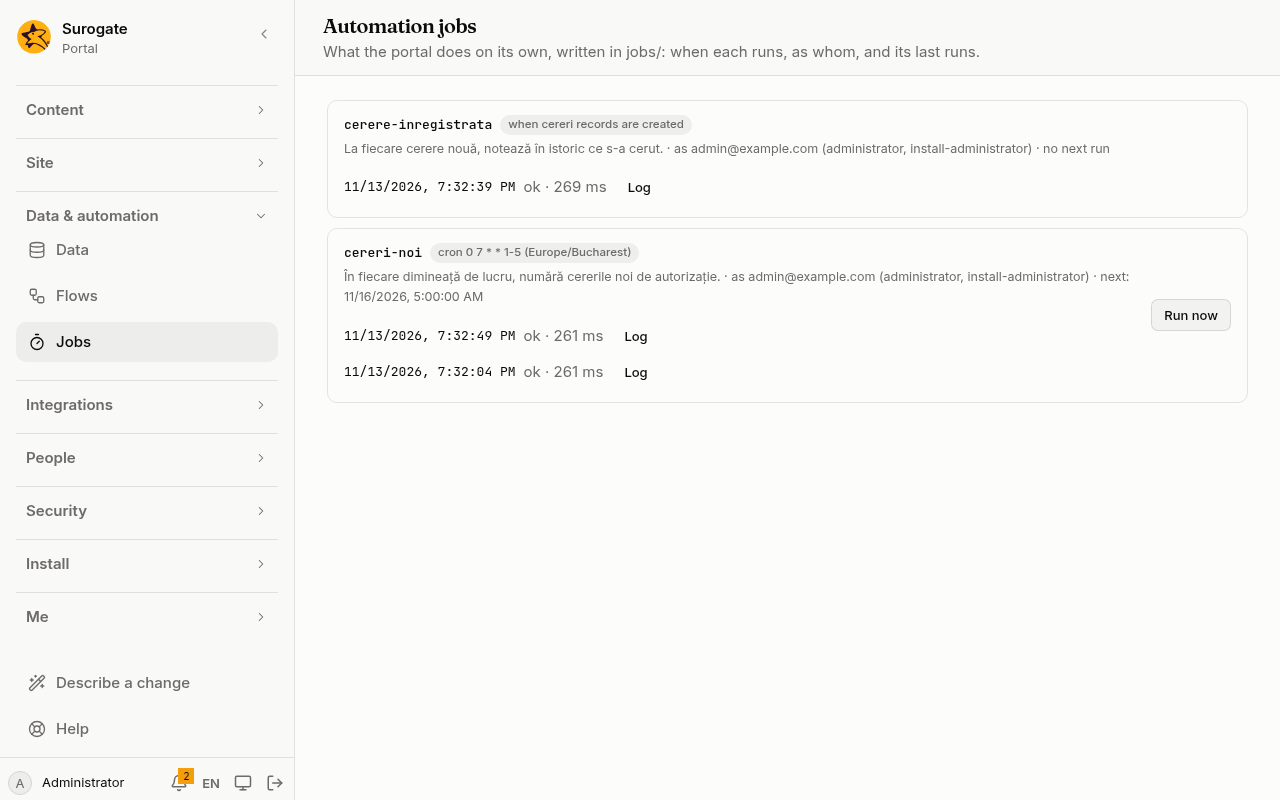
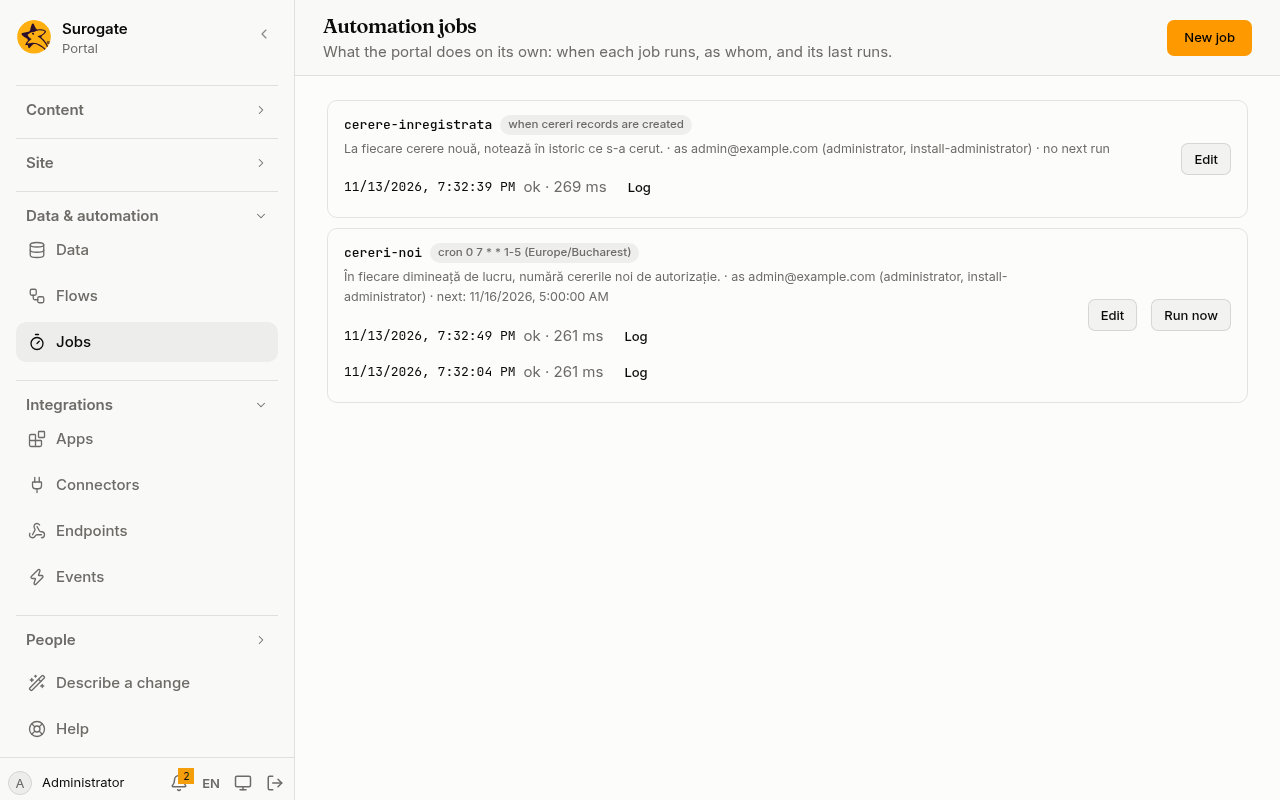
docs(portal): make and change automation jobs in the console

diff --git a/tests/test_content.py b/tests/test_content.py
@@ -512,6 +512,9 @@ class Content(unittest.TestCase):
         doc = page('/portal/sites/jobs/')
         for anchor in ('write-a-job', 'when-it-runs', 'when-records-change', 'when-people-come-and-go', 'when-the-portal-starts-fails-or-is-asked-for', 'when-mail-arrives', 'when-an-app-sends-an-event', 'send-mail', 'what-it-may-do', 'in-the-console'):
             self.assertIn(f'id="{anchor}"', doc)
+        # Jobs are made in the console.
+        self.assertIn('id="make-or-change-a-job"', doc)
+        self.assertNotIn('does not write jobs yet', (ROOT / 'src/content/docs/portal/sites/jobs.md').read_text())
         source = (ROOT / 'src/content/docs/portal/sites/jobs.md').read_text()
         for word in ('kubectl', 'helm', 'PORTAL_', 'git', 'Git', 'Hub', 'worker', 'Postgres', 'repositor', 'lease', 'CEL'):
             self.assertIsNone(re.search(rf'\b{word}', source), word)

diff --git a/src/content/docs/portal/sites/jobs.md b/src/content/docs/portal/sites/jobs.md
@@ -9,7 +9,7 @@ An automation job is work the portal does on its own: count the new requests eve
 
 A job tells no page anything and answers no one, so what people see of it is what it does: a record added, an email sent, a line in a log. Administrators see the jobs under **Jobs** in the console: its trigger, the person it runs as and their roles, when it runs next, whether it runs now, how many changes it still has to run for, and its last runs with their logs:
 
-![The Automation jobs page: the job cerere-inregistrata, which runs when requests are created, and the job cereri-noi, which runs on a schedule, each with the person it runs as and its last runs marked ok, with Log, and Run now for the scheduled one.](../../../../assets/screenshots/portal-jobs-console.png)
+![The Automation jobs page with New job: the job cerere-inregistrata, which runs when requests are created, and the job cereri-noi, which runs on a schedule, each with the person it runs as, its last runs marked ok with Log, Edit, and Run now for the scheduled one.](../../../../assets/screenshots/portal-jobs-console.png)
 
 **Log** shows what a run wrote:
 
@@ -21,7 +21,19 @@ Runs are kept 30 days, with only their errors unless the job is set to debug. **
 
 A job runs for one site; that site's first language is the run's. It acts as a person it names: what that person may see and change, the job may. Without a person, the job acts as a visitor. When the person no longer exists or may not sign in, the run fails and says so. A description says what the job is for, in the console.
 
-The console shows the portal's jobs and their runs; it does not write jobs yet. For now, this is set in the site's configuration: see [Developer: Automation jobs](/portal/developer/jobs/#write-a-job).
+### Make or change a job
+
+Under **Jobs**, **New job** makes one and **Edit** opens one. A job whose file has problems, or that was written by hand in a shape the console cannot draw, is listed under **Jobs not running**, with **Edit**. The editor has three tabs:
+
+- **When:** **It runs** chooses the kind of trigger, and the rest of the tab asks for what that kind needs: how often, a time of day and its time zone, a cron, a date and time, a model and which changes, a mailbox, an app and its event, or which events of the portal, Keel or the DMS. For a job on a time, **Next run** says when it comes, and two rules: **Skip a run while the last one is still running** (on unless you turn it off) and what happens **After the portal was down**.
+- **Settings:** the id (lower-case letters, digits and hyphens, fixed once saved), a description, the **Site**, and **Runs as**, a person's email; empty, the job runs as a visitor. An email no one in the portal has yet is said, and the job will not run until they are.
+- **Actions:** the actions the job runs, built as a form's [steps](/portal/console/forms/#steps) are, and under **When it fails** those that run instead when one fails. Expressions read what started the job as `trigger`, and the error as `error` when it fails.
+
+![The job cereri-noi's When tab: It runs on a cron schedule, the cron 0 7 * * 1-5 in the time zone Europe/Bucharest, when it runs next, the rule to skip a run while the last still runs, and what happens after the portal was down.](../../../../assets/screenshots/portal-job-edit.png)
+
+Each problem is said at its field as you type, and **Save** waits until there are none; above the tabs, the editor says what it still needs and which tabs have problems. A job on a date that is already past is kept: it has run, and will not run again. **Remove** stops the job, after asking.
+
+Developers can also write jobs in the site's configuration: see [Developer: Automation jobs](/portal/developer/jobs/#write-a-job).
 
 ## When it runs
 

diff --git a/src/content/docs/portal/sites/endpoints.md b/src/content/docs/portal/sites/endpoints.md
@@ -9,7 +9,7 @@ An API endpoint answers other programs, apps and pages at an address of the port
 
 An endpoint has no page of its own: a program, an app or a page of the site calls its address and gets JSON, text or a redirect. Administrators see every endpoint under **Endpoints** in the console, with who may call it and the last calls:
 
-![The API endpoints page: the endpoint GET /_portal/endpoints/program, marked Anyone and "kept 60 s", and under Last calls three calls, each stopped with HTTP 200 and how long it took, with a Log button.](../../../../assets/screenshots/portal-endpoints-console.png)
+![The API endpoints page with New endpoint: the endpoint GET /_portal/endpoints/program, marked Anyone and "kept 60 s", with Edit, and under Last calls its calls, each stopped with HTTP 200 and how long it took, with a Log button.](../../../../assets/screenshots/portal-endpoints-console.png)
 
 See [Its calls](#its-calls).
 
